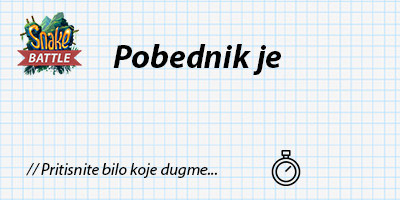
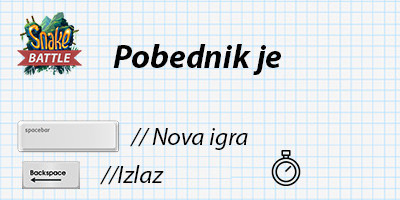
FINAL101010

Changed region(s): [[0.03, 0.6, 0.57, 0.96], [0.33, 0.63, 0.63, 0.75]]

diff --git a/SnakeBattle-pp2/SnakeBattle-pp2/grafika.c b/SnakeBattle-pp2/SnakeBattle-pp2/grafika.c
@@ -762,7 +762,7 @@ char *ucitaj(SDL_Window *window, SDL_Renderer *renderer, float vreme, int pobedn
 				switch (e.key.keysym.sym) {
 				case SDLK_KP_ENTER:
 				case SDLK_RETURN:
-					done = 1;
+					if (strlen(res)>0) done = 1;
 					continue;
 				case SDLK_BACKSPACE:
 					if (strlen(res) > 0)
